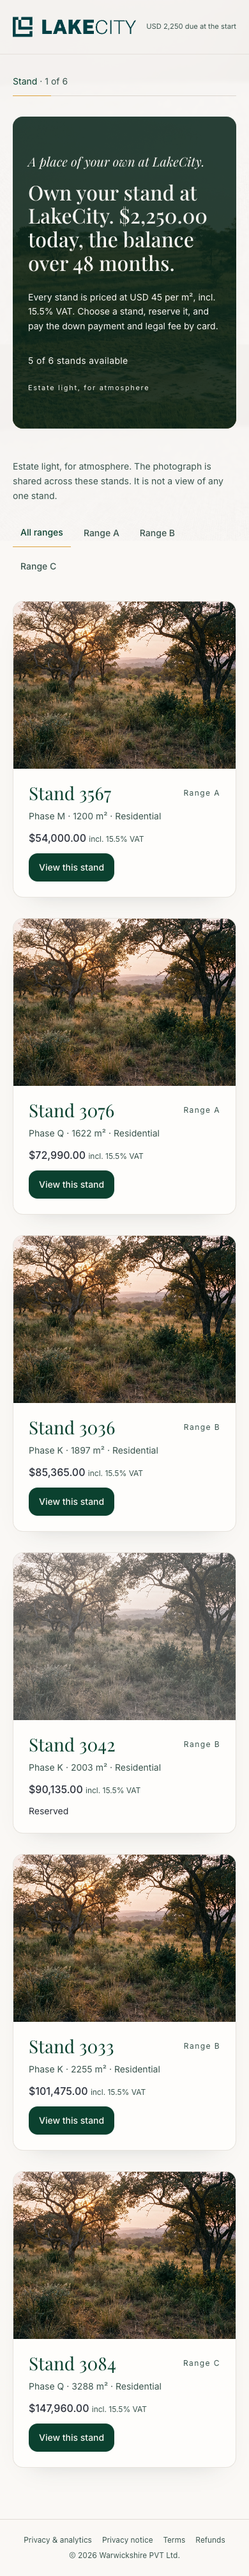
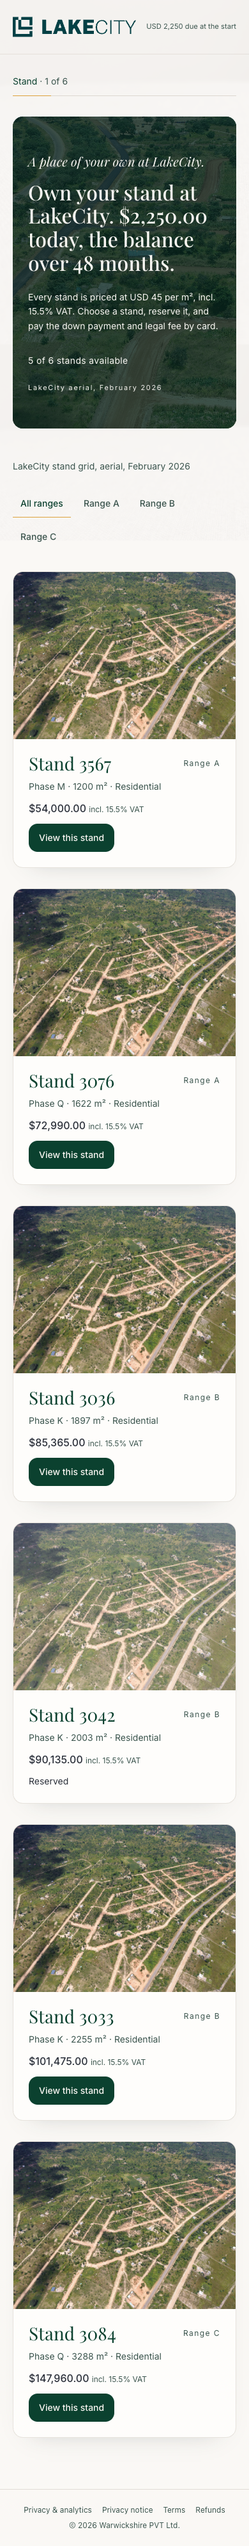
Place the real aerials and refresh the after screenshots.
Spine road on the stands hero and stand detail. Stand grid on the cards and Welcome, under a dark scrim.

diff --git a/src/pages/stands/StandsPage.tsx b/src/pages/stands/StandsPage.tsx
@@ -4,35 +4,21 @@ import { Loader2 } from "lucide-react";
 import { Button } from "@/components/ui/button";
 import { Card } from "@/components/ui/card";
 import { WizardFrame } from "@/components/stand-sales/WizardFrame";
-import { usePrefersReducedMotion } from "@/components/stand-sales/usePrefersReducedMotion";
 import { standSalesApi, type StandCard } from "@/lib/stand-sales/api";
 import { formatMoney } from "@/lib/stand-sales/money";
 import { cn } from "@/lib/utils";
-import heroStill from "@/assets/stand-sales/luxe/hero-golden-hour-plot.jpg";
-import showcaseStill from "@/assets/stand-sales/luxe/showcase-plot-card.jpg";
-import ambienceLoop from "@/assets/stand-sales/luxe/ambience-plot-loop.mp4";
+import spineRoad from "@/assets/stand-sales/luxe/hero-real-spine-road-aerial.jpg";
+import standGrid from "@/assets/stand-sales/luxe/real-green-season-stand-grid.jpg";
 
 type Filter = "all" | "A" | "B" | "C";
 
-function useWideScreen() {
-  const [wide, setWide] = useState(false);
-  useEffect(() => {
-    const media = window.matchMedia("(min-width: 1280px)");
-    const apply = () => setWide(media.matches);
-    apply();
-    media.addEventListener("change", apply);
-    return () => media.removeEventListener("change", apply);
-  }, []);
-  return wide;
-}
+const SPINE_ALT = "LakeCity aerial, February 2026";
+const GRID_ALT = "LakeCity stand grid, aerial, February 2026";
 
 export default function StandsPage() {
   const [stands, setStands] = useState<StandCard[] | null>(null);
   const [error, setError] = useState<string | null>(null);
   const [filter, setFilter] = useState<Filter>("all");
-  const reducedMotion = usePrefersReducedMotion();
-  const wide = useWideScreen();
-  const playLoop = wide && !reducedMotion;
 
   function load() {
     setError(null);
@@ -47,31 +33,18 @@ export default function StandsPage() {
   return (
     <WizardFrame step={0}>
       <section className="relative overflow-hidden rounded-2xl bg-[hsl(160_70%_10%)]" data-testid="stands-hero">
-        <img src={heroStill} alt="" className="absolute inset-0 h-full w-full object-cover" />
-        {playLoop && (
-          <video
-            className="absolute inset-0 h-full w-full object-cover"
-            muted
-            playsInline
-            loop
-            autoPlay
-            poster={heroStill}
-            aria-hidden="true"
-          >
-            <source src={ambienceLoop} type="video/mp4" />
-          </video>
-        )}
-        <div className="absolute inset-0 bg-[hsl(160_70%_8%/0.86)] md:bg-gradient-to-r md:from-[hsl(160_70%_8%/0.94)] md:via-[hsl(160_70%_10%/0.8)] md:to-[hsl(160_40%_16%/0.34)]" />
+        <img src={spineRoad} alt={SPINE_ALT} className="absolute inset-0 h-full w-full object-cover" />
+        <div className="absolute inset-0 bg-[hsl(160_70%_8%/0.78)] md:bg-gradient-to-r md:from-[hsl(160_70%_8%/0.9)] md:via-[hsl(160_70%_10%/0.72)] md:to-[hsl(160_40%_16%/0.42)]" />
         <div className="relative max-w-3xl px-6 py-14 md:px-12 md:py-20">
           <p className="font-display text-xl italic leading-snug text-[hsl(40_33%_96%)] md:text-2xl">A place of your own at LakeCity.</p>
           <h1 className="mt-4 max-w-3xl font-display text-[2rem] font-medium leading-[1.15] text-[hsl(40_33%_96%)] md:text-[3.25rem]">Own your stand at LakeCity. $2,250.00 today, the balance over 48 months.</h1>
           <p className="mt-6 max-w-xl font-body text-sm leading-relaxed text-[hsl(40_33%_96%)] md:text-base">Every stand is priced at USD 45 per m², incl. 15.5% VAT. Choose a stand, reserve it, and pay the down payment and legal fee by card.</p>
           <p className="mt-8 font-body text-sm tracking-wide text-[hsl(40_33%_96%)]">{stands === null ? "Checking availability…" : `${available} of ${stands.length} stands available`}</p>
-          <p className="mt-6 text-[0.68rem] tracking-[0.16em] text-[hsl(40_33%_96%)]">Estate light, for atmosphere</p>
+          <p className="mt-6 text-[0.68rem] tracking-[0.16em] text-[hsl(40_33%_96%)]" aria-hidden="true">{SPINE_ALT}</p>
         </div>
       </section>
       <section id="stands" className="mt-12">
-        <p className="mb-6 max-w-xl text-sm leading-relaxed text-muted-foreground">Estate light, for atmosphere. The photograph is shared across these stands. It is not a view of any one stand.</p>
+        <p className="mb-6 max-w-xl text-sm leading-relaxed text-muted-foreground" aria-hidden="true">{GRID_ALT}</p>
         <div className="mb-8 flex flex-wrap gap-2" data-testid="band-filter">
           {(["all", "A", "B", "C"] as Filter[]).map((key) => (
             <Button
@@ -103,11 +76,10 @@ export default function StandsPage() {
             <Card key={stand.standNumber} className="overflow-hidden border-border/80" data-testid={`stand-${stand.standNumber}`}>
               <div className="relative aspect-[4/3] overflow-hidden">
                 <img
-                  src={showcaseStill}
-                  alt=""
-                  className={cn("h-full w-full object-cover", !stand.available && "opacity-75 saturate-50")}
+                  src={standGrid}
+                  alt={GRID_ALT}
+                  className={cn("h-full w-full object-cover", !stand.available && "opacity-80")}
                 />
-                <span className="sr-only">Estate light, for atmosphere. Not a photograph of stand {stand.standNumber}.</span>
               </div>
               <div className="space-y-3 p-6">
                 <div className="flex items-center justify-between gap-3">

diff --git a/src/pages/stands/StandDetailPage.tsx b/src/pages/stands/StandDetailPage.tsx
@@ -9,7 +9,7 @@ import { WizardFrame } from "@/components/stand-sales/WizardFrame";
 import { standSalesApi, type StandCard } from "@/lib/stand-sales/api";
 import { formatMoney } from "@/lib/stand-sales/money";
 import { readStandSession, saveStandSession } from "@/lib/stand-sales/session";
-import heroStill from "@/assets/stand-sales/luxe/hero-golden-hour-plot.jpg";
+import spineRoad from "@/assets/stand-sales/luxe/hero-real-spine-road-aerial.jpg";
 
 export default function StandDetailPage() {
   const { standNumber = "" } = useParams();
@@ -91,13 +91,12 @@ export default function StandDetailPage() {
         <div className="mt-8 grid gap-8 lg:grid-cols-[1fr_1fr] lg:items-start">
           <Card className="overflow-hidden border-border/80" data-testid="stand-summary">
             <div className="relative h-56 md:h-72">
-              <img src={heroStill} alt="" className="h-full w-full object-cover" />
-              <div className="absolute inset-0 bg-gradient-to-t from-[hsl(160_70%_8%/0.92)] via-[hsl(160_70%_10%/0.5)] to-[hsl(160_45%_14%/0.2)]" />
+              <img src={spineRoad} alt="LakeCity aerial, February 2026" className="h-full w-full object-cover" />
+              <div className="absolute inset-0 bg-gradient-to-t from-[hsl(160_70%_8%/0.92)] via-[hsl(160_70%_10%/0.55)] to-[hsl(160_45%_14%/0.28)]" />
               <div className="absolute inset-x-0 bottom-0 p-6">
-                <p className="text-[0.68rem] tracking-[0.16em] text-[hsl(40_33%_96%)]">Estate light, for atmosphere</p>
+                <p className="text-[0.68rem] tracking-[0.16em] text-[hsl(40_33%_96%)]" aria-hidden="true">LakeCity aerial, February 2026</p>
                 <h1 className="mt-2 font-display text-[2rem] leading-tight text-[hsl(40_33%_96%)] md:text-5xl">Stand {stand.standNumber}</h1>
               </div>
-              <span className="sr-only">Estate light, for atmosphere. Not a photograph of stand {stand.standNumber}.</span>
             </div>
             <CardContent className="space-y-2 p-6 md:p-8">
               <p className="text-sm text-muted-foreground">{stand.sizeSqm} m² · Phase {stand.phase} · Range {stand.band}</p>

diff --git a/src/pages/stands/StandWelcomePage.tsx b/src/pages/stands/StandWelcomePage.tsx
@@ -7,7 +7,7 @@ import { Alert, AlertDescription, AlertTitle } from "@/components/ui/alert";
 import { standSalesApi, type ApplicationView, type PaymentView } from "@/lib/stand-sales/api";
 import { formatMoney } from "@/lib/stand-sales/money";
 import { readStandSession } from "@/lib/stand-sales/session";
-import ambienceStill from "@/assets/stand-sales/luxe/ambience-highveld-light.jpg";
+import standGrid from "@/assets/stand-sales/luxe/real-green-season-stand-grid.jpg";
 
 export default function StandWelcomePage() {
   const { standNumber = "" } = useParams();
@@ -40,7 +40,7 @@ export default function StandWelcomePage() {
         <p>Your payment is not confirmed yet. <Link className="underline" to={`/stands/${standNumber}/pay`}>Check payment status</Link>.</p>
       ) : (
         <section className="relative overflow-hidden rounded-2xl bg-[hsl(160_70%_9%)] px-6 py-14 text-[hsl(40_33%_96%)] md:px-12 md:py-20" data-testid="welcome">
-          <img src={ambienceStill} alt="" className="pointer-events-none absolute inset-0 h-full w-full object-cover opacity-40" />
+          <img src={standGrid} alt="LakeCity stand grid, aerial, February 2026" className="pointer-events-none absolute inset-0 h-full w-full object-cover" />
           <div className="absolute inset-0 bg-[hsl(160_70%_8%/0.88)]" />
           <div className="relative max-w-2xl">
             <div className="mb-8 h-px w-16 bg-sl-gold" aria-hidden="true" />
@@ -63,6 +63,7 @@ export default function StandWelcomePage() {
             <p className="mt-5 font-body text-sm">
               <Link className="text-[hsl(40_33%_96%)] underline decoration-sl-gold underline-offset-4" to={`/stands/${standNumber}/agreement`} data-testid="welcome-agreement-link">Go straight to Agreement of Sale</Link>
             </p>
+            <p className="mt-8 text-[0.68rem] tracking-[0.16em] text-[hsl(40_33%_96%)]" aria-hidden="true">LakeCity stand grid, aerial, February 2026</p>
           </div>
         </section>
       )}

diff --git a/src/components/stand-sales/luxe.css b/src/components/stand-sales/luxe.css
@@ -60,10 +60,6 @@ body.stand-sales-luxe-active,
 }
 
 @media (prefers-reduced-motion: reduce) {
-  .stand-sales-luxe video {
-    display: none !important;
-  }
-
   body.stand-sales-luxe-active *:not(.animate-spin) {
     animation: none !important;
     transition: none !important;
